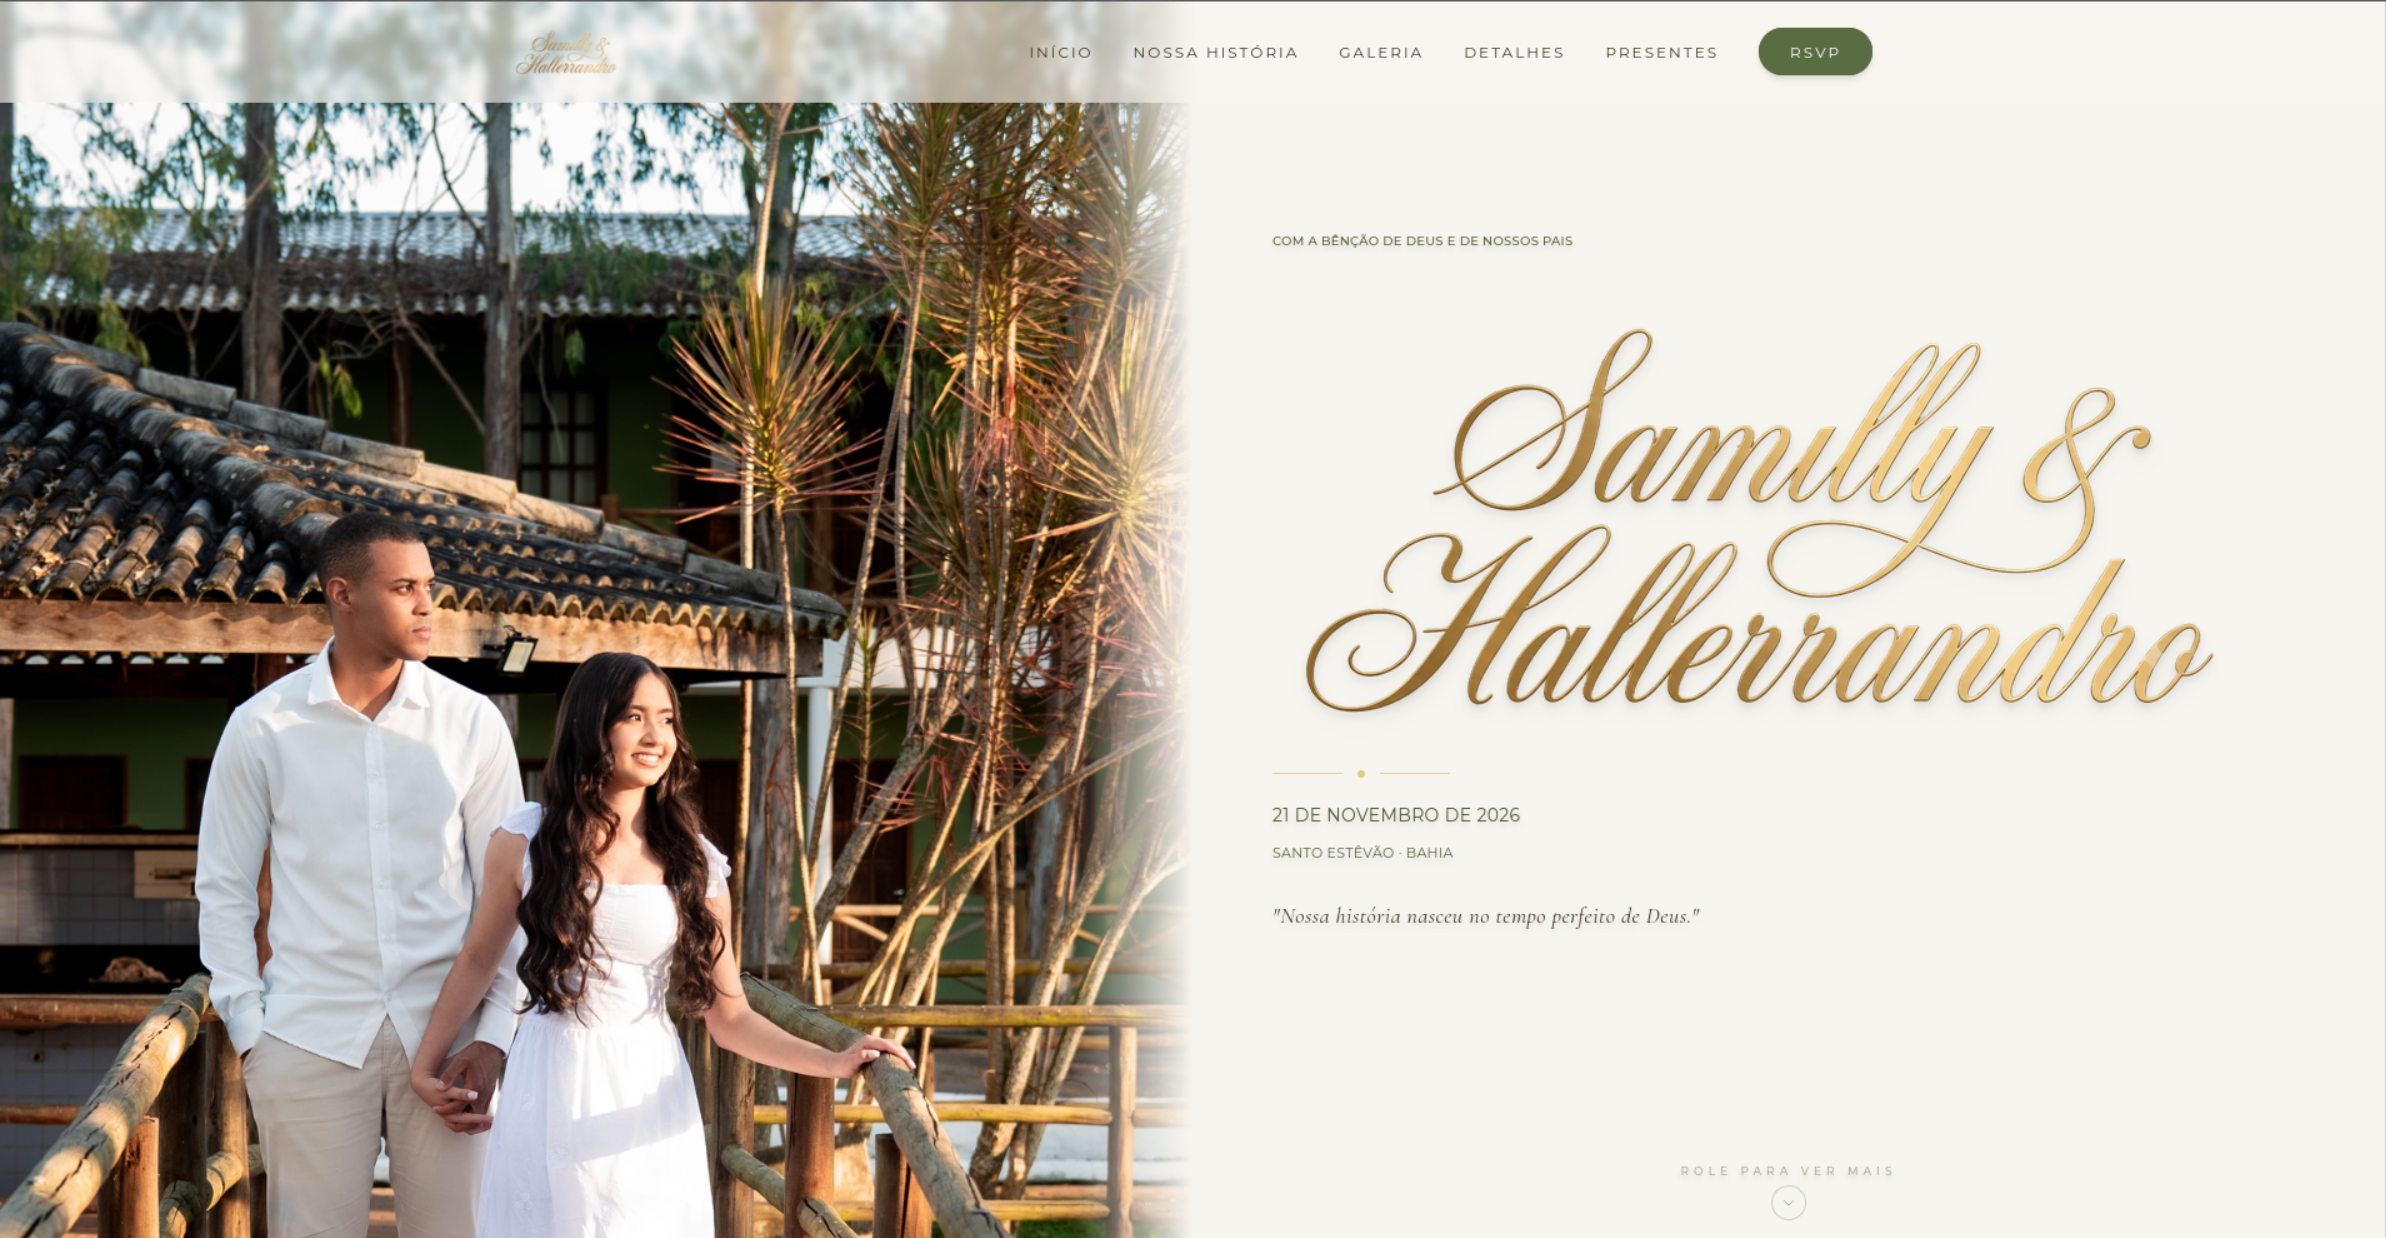
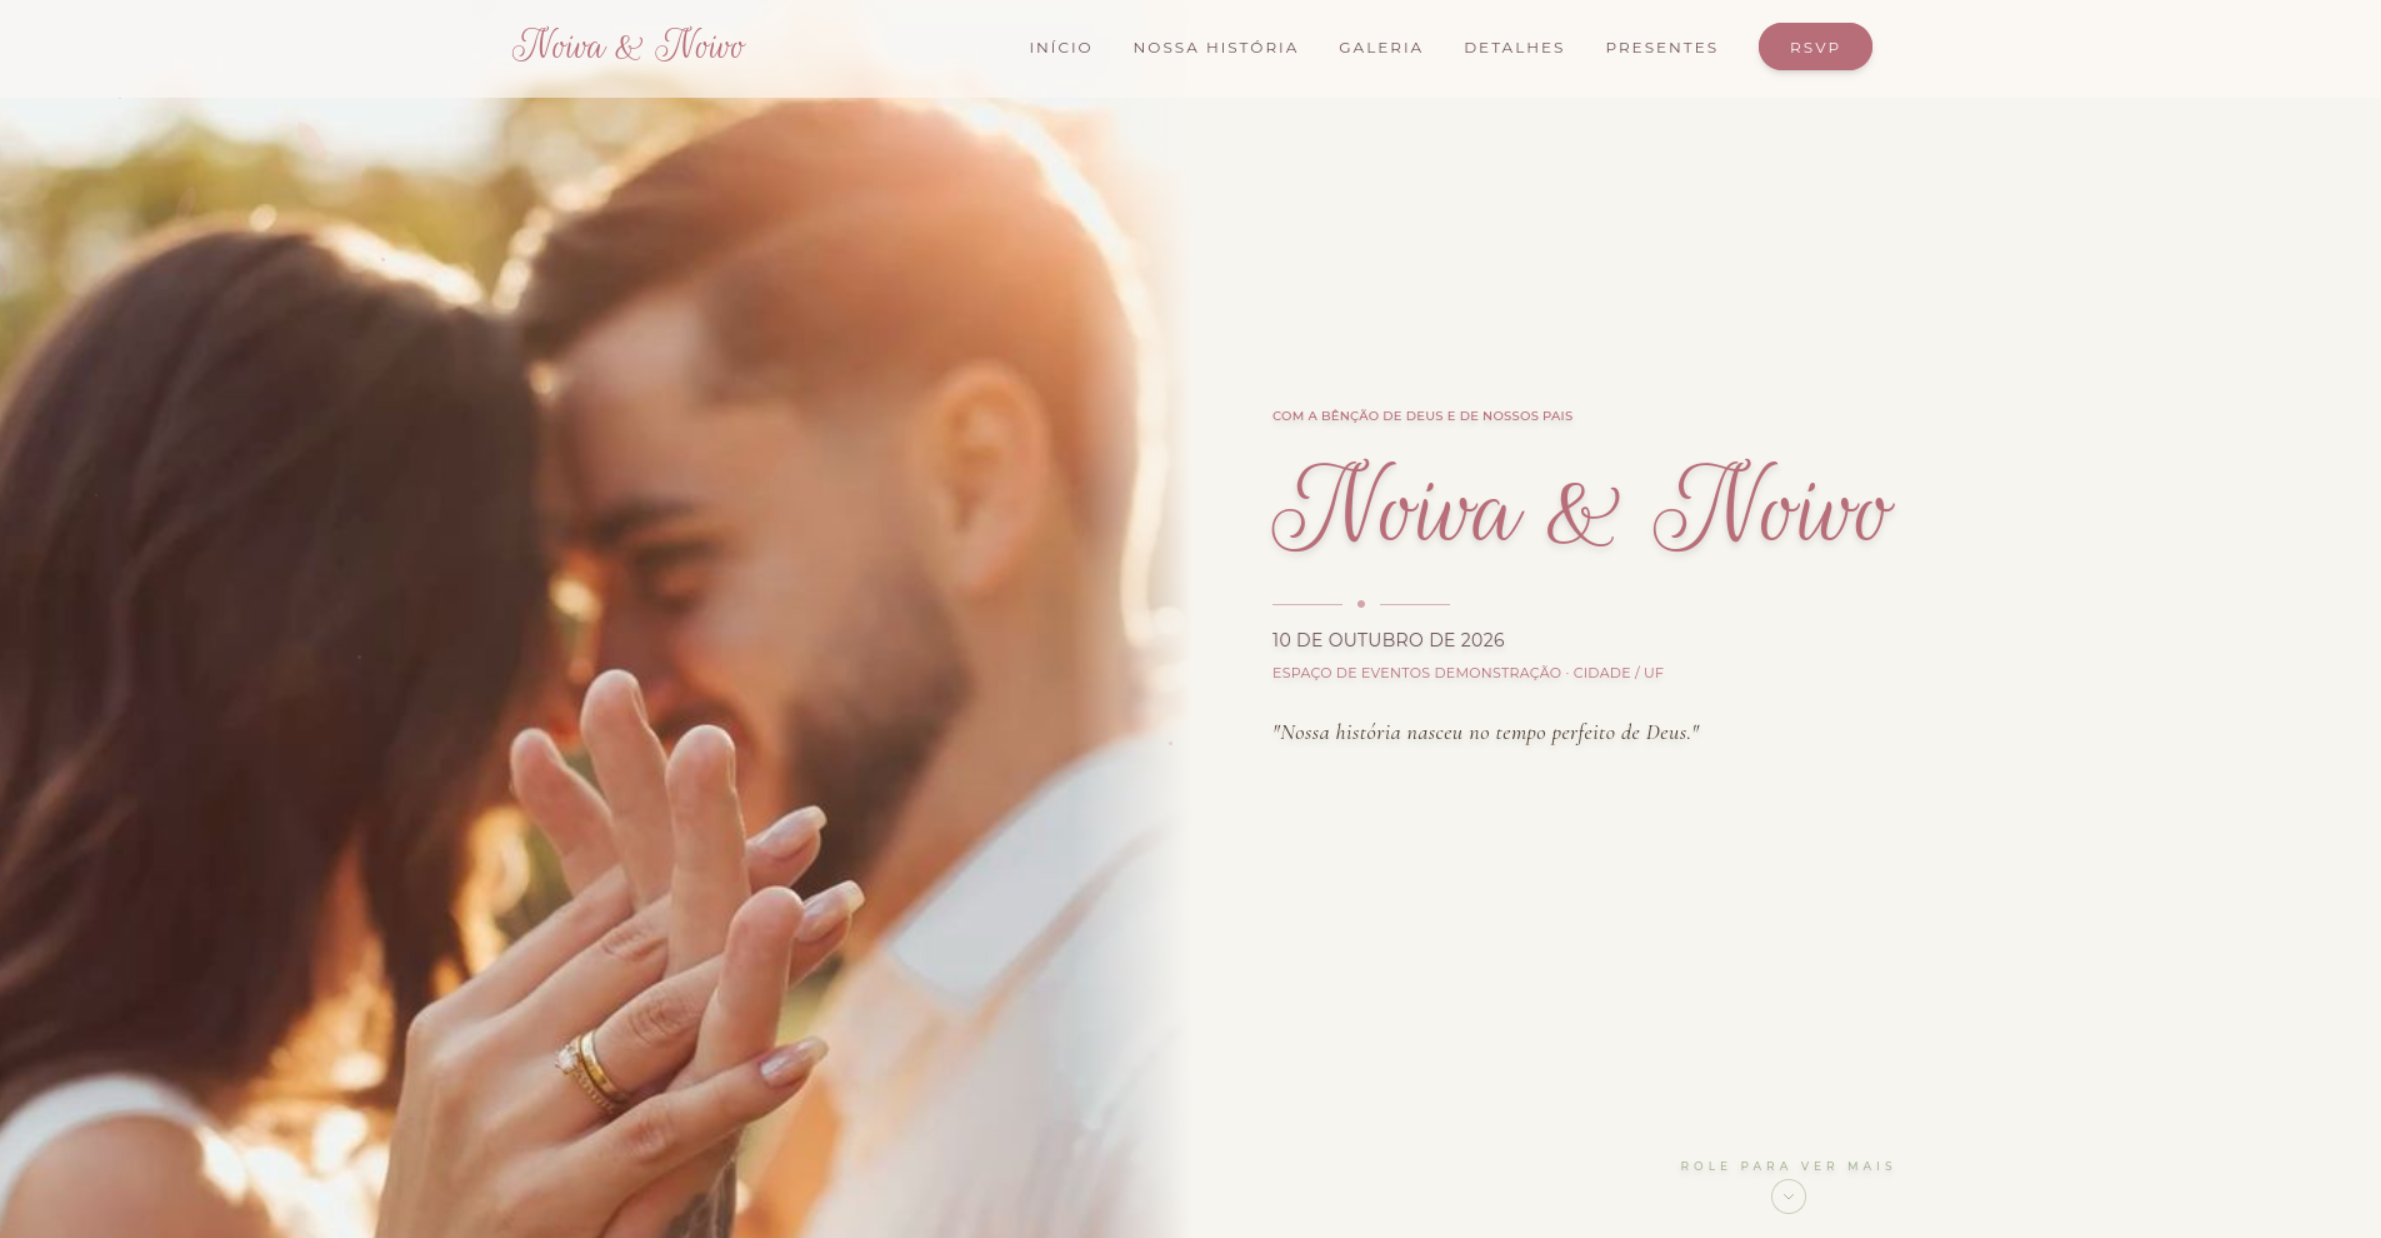
feat: update wedding project link and add new preview image

diff --git a/src/components/ProjetosSection.vue b/src/components/ProjetosSection.vue
@@ -100,7 +100,7 @@ const projetos = [
     pilha: ['Vue 3', 'Tailwind CSS', 'GSAP', 'Integração de APIs'],
     categoria: 'Alta-Costura Digital',
     destaque: true,
-    link: 'https://samilly-e-hallerrandro.vercel.app/',
+    link: 'https://convite-demo.vercel.app/',
     imagem: '/projeto-casamento.jpg',
     isCasamento: true,
   },
